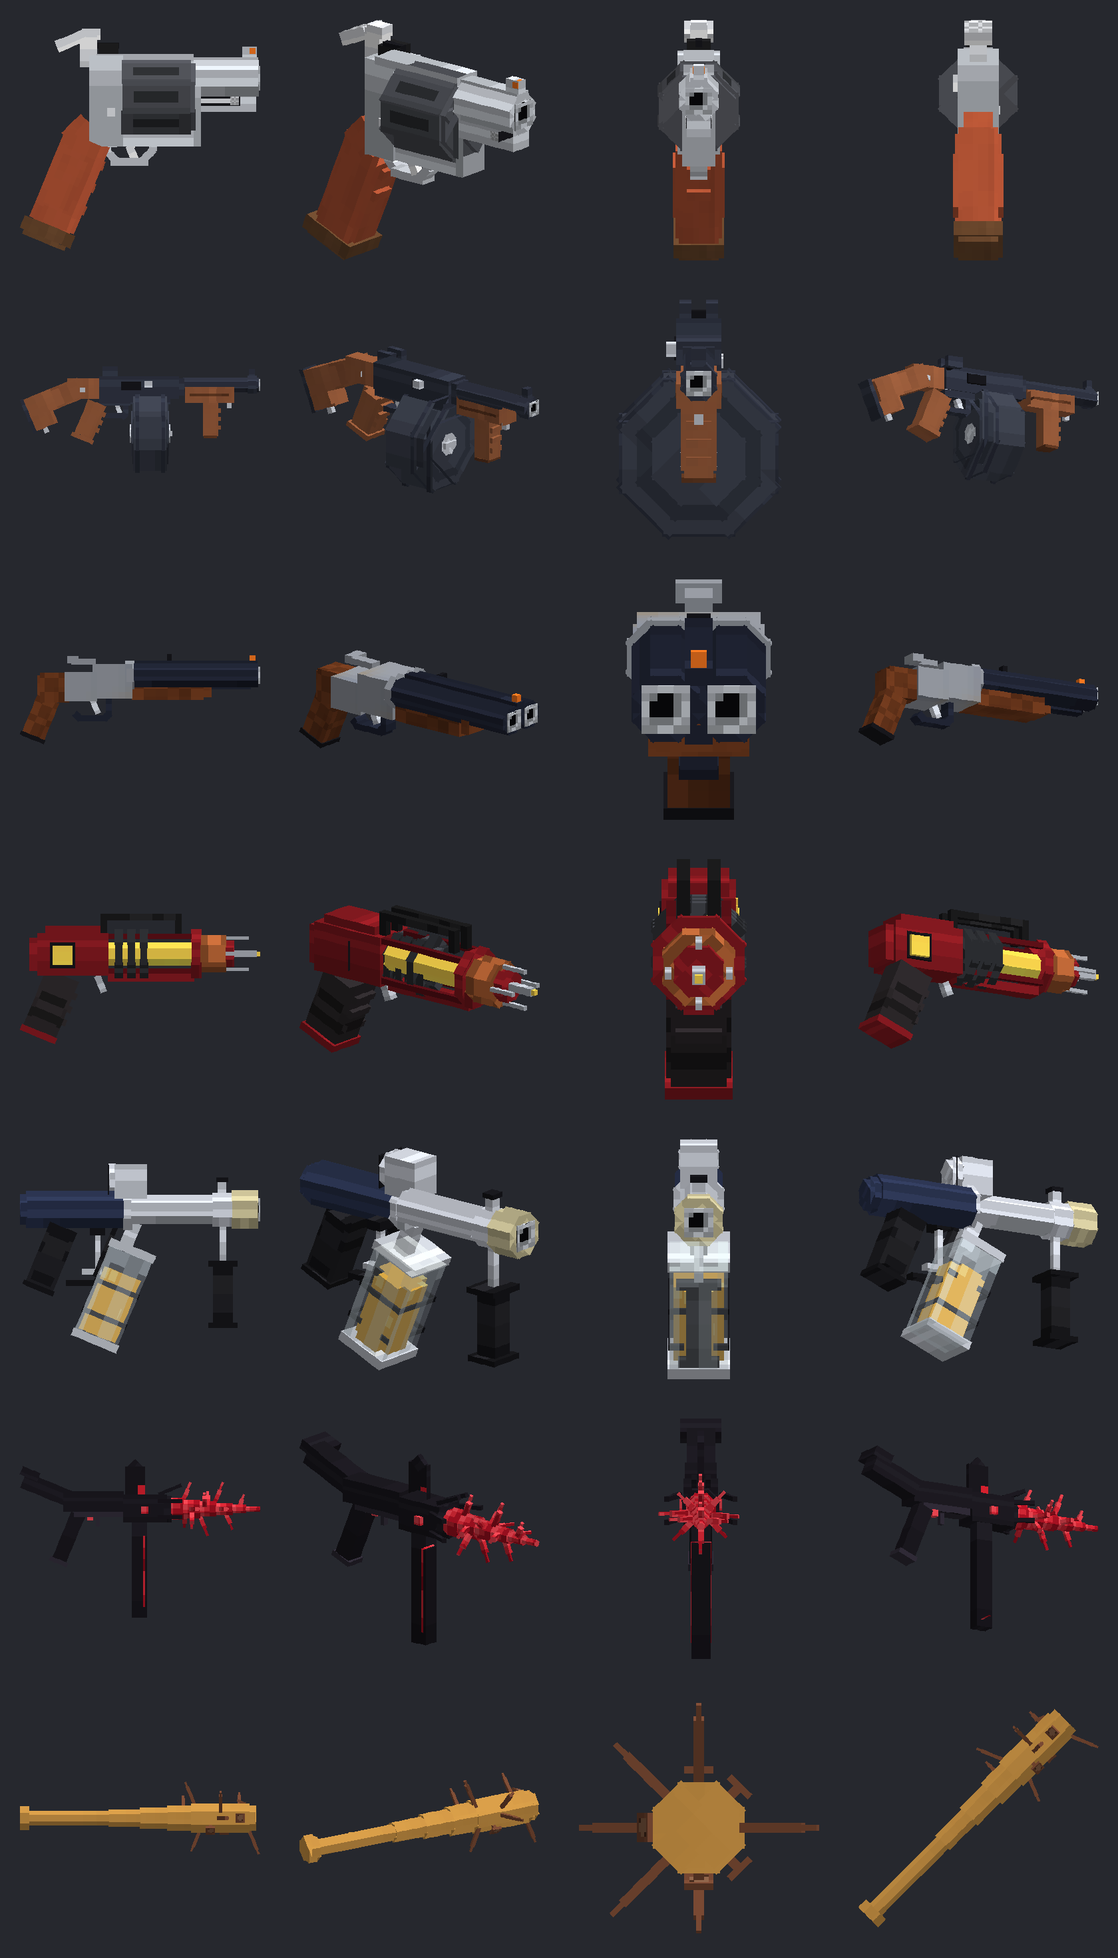
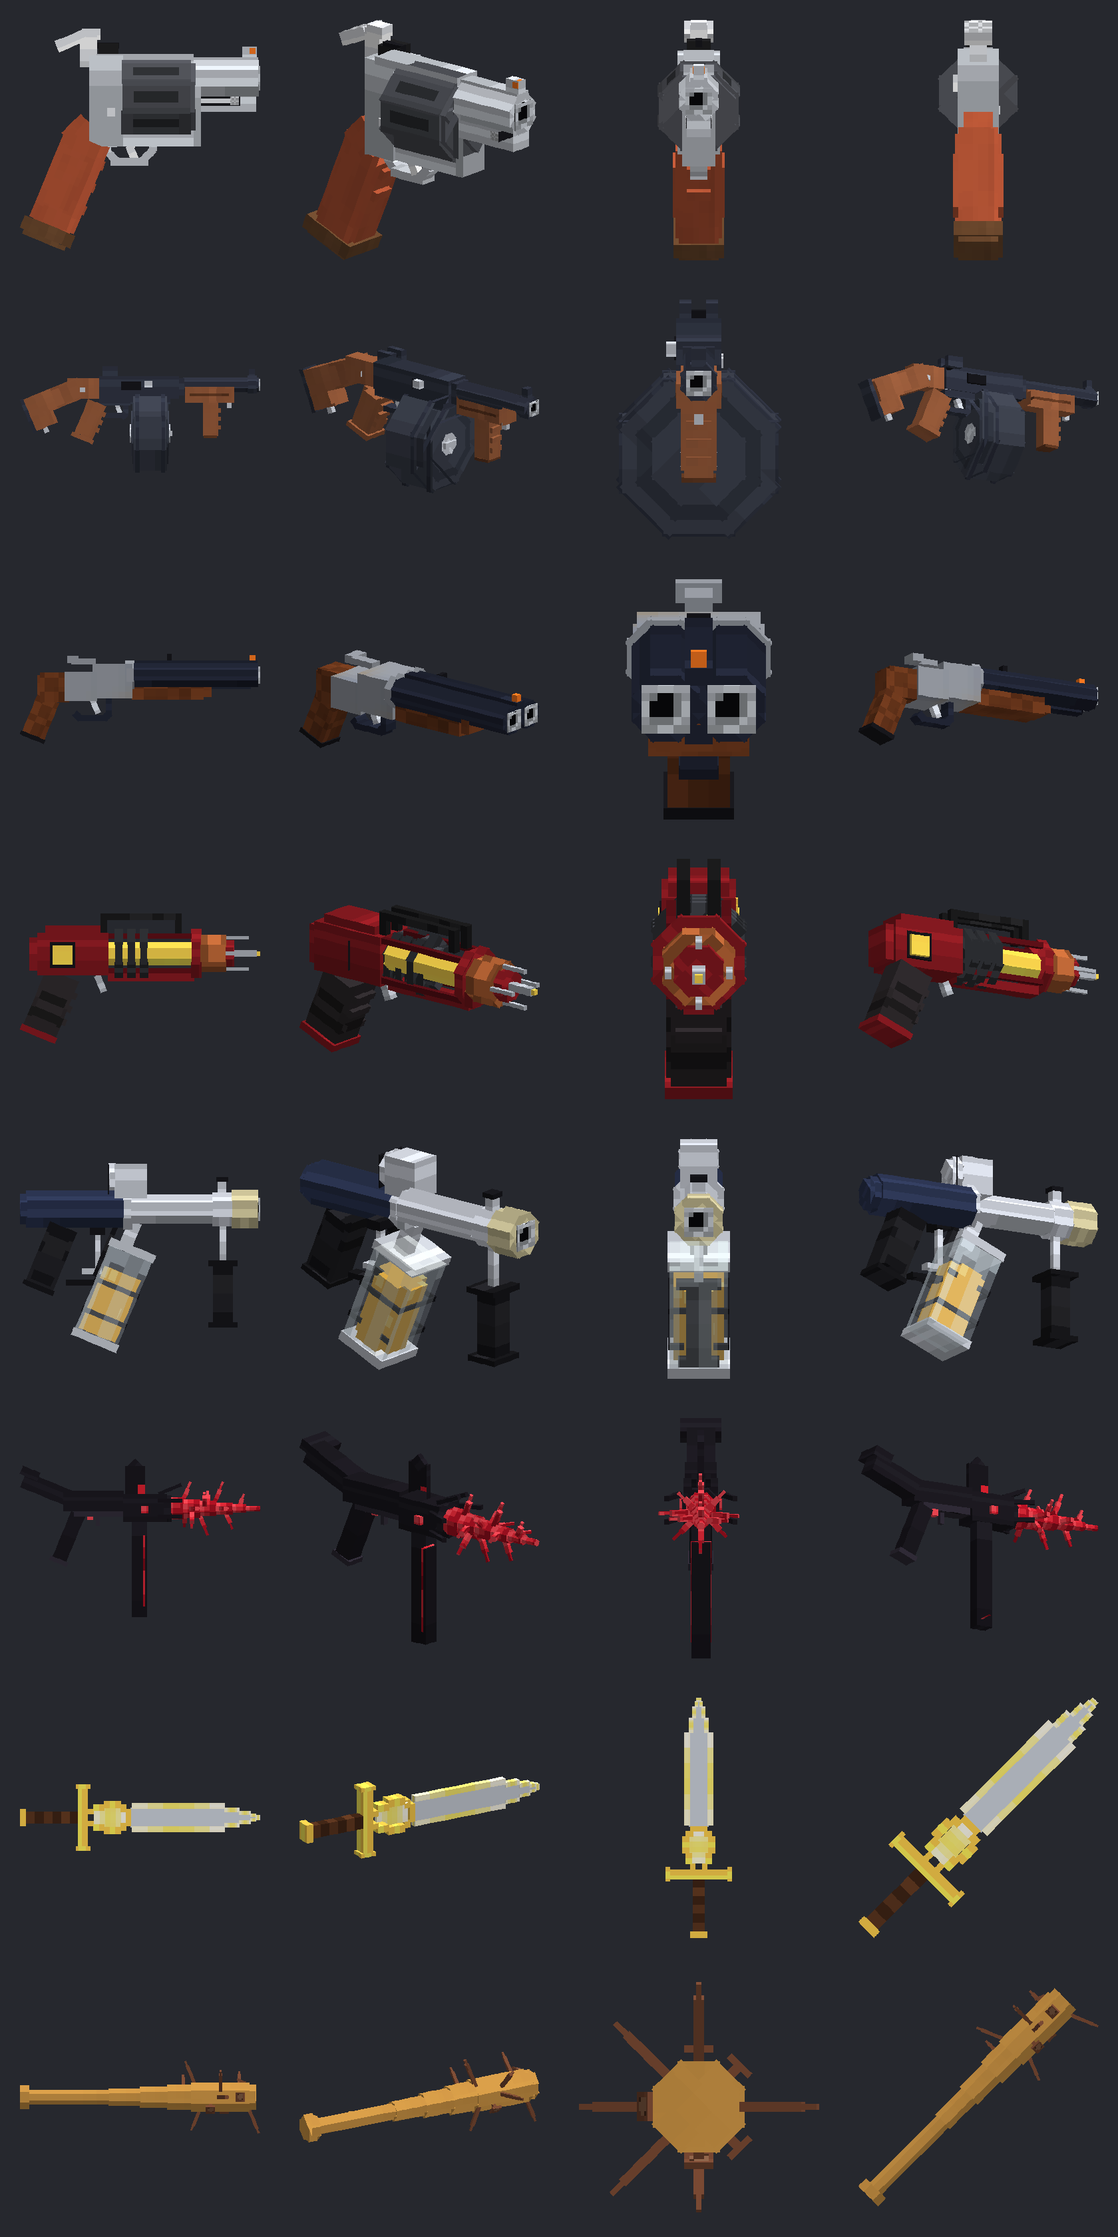
0.8.0: Radiant Ankh sword (ankh hilt, animated radiant edges and blade gleam)
Claude-Session: https://claude.ai/code/session_01G8stAj2NsEdEgKC46eLYfu

diff --git a/tools/make_pack.py b/tools/make_pack.py
@@ -692,6 +692,78 @@ for e in elements:   # the crystal glows faintly in the dark
     if any(f["texture"] == "#crystal" for f in e["faces"].values()): e["light_emission"] = 10
 UMBRAL = elements
 
+# ---------------- geometry: radiant ankh (sword) ----------------
+# A sword whose handle and hilt are an ankh: the stem is the grip, the crossbar is the guard, and the loop holds a
+# pane of light; the blade rises from the top of the loop. Its edges carry radiant light. Two textures are animated
+# (a strip of frames plus a .mcmeta file): the edge light shimmers upward and a gleam sweeps along the steel.
+def frames_strip(draw_frame, n):
+    strip = Image.new("RGBA", (16, 16 * n))
+    for i in range(n): strip.paste(draw_frame(i, n), (0, 16 * i))
+    return strip
+def radiance_frame(i, n):
+    im = Image.new("RGBA", (16, 16)); px = im.load()
+    for y in range(16):
+        for x in range(16):
+            wave = 0.5 + 0.5 * math.cos(2 * math.pi * ((y / 16) + i / n))   # bright band travelling up
+            core = 1 - abs(x - 7.5) / 8
+            v = 0.55 + 0.3 * wave + 0.15 * core
+            px[x, y] = (255, clamp(214 + 40 * v), clamp(110 + 140 * v * wave), 255)
+    return im
+def blade_frame(i, n):
+    im = Image.new("RGBA", (16, 16)); px = im.load()
+    for y in range(16):
+        for x in range(16):
+            c = (206, 212, 222)
+            if x in (7, 8): c = (168, 174, 188)                            # fuller down the middle
+            g = (x + (15 - y)) - (i * 32 / n) + 8                          # diagonal gleam sweeping across
+            if abs(g) < 2.2: c = tuple(min(255, v + 40) for v in c)
+            px[x, y] = c + (255,)
+    return im
+SWORD_TEX = {"gold": tex_metal((230, 186, 70)), "grip": tex_banded((92, 54, 32), 3, 0.7, vertical=True),
+             "blade": frames_strip(blade_frame, 16), "radiance": frames_strip(radiance_frame, 8)}
+ANIMATED = {"blade": {"frametime": 3, "interpolate": True}, "radiance": {"frametime": 2, "interpolate": True}}
+for k, im in SWORD_TEX.items():
+    im.save(path("assets", NS, "textures", "item", "radiant_ankh", k + ".png"))
+    if k in ANIMATED: wjson(path("assets", NS, "textures", "item", "radiant_ankh", k + ".png.mcmeta"), {"animation": ANIMATED[k]})
+FULL_UV.update({"radiance"})
+
+elements = []
+# the ankh: stem as the grip with a pommel, crossbar as the guard with flared ends
+box((7.0, -8.0, 7.2), (9.0, 1.0, 8.8), "grip")
+box((6.6, -9.0, 6.8), (9.4, -8.0, 9.2), "gold")                      # pommel
+box((3.0, 1.0, 7.0), (13.0, 2.6, 9.0), "gold")                       # crossbar
+box((2.4, 0.6, 6.9), (3.0, 3.0, 9.1), "gold")                        # flared ends
+box((13.0, 0.6, 6.9), (13.6, 3.0, 9.1), "gold")
+# the loop, narrow where it meets the crossbar and round at the top
+box((6.6, 2.6, 7.1), (7.4, 3.6, 8.9), "gold")
+box((8.6, 2.6, 7.1), (9.4, 3.6, 8.9), "gold")
+box((5.8, 3.6, 7.1), (6.8, 5.4, 8.9), "gold")
+box((9.2, 3.6, 7.1), (10.2, 5.4, 8.9), "gold")
+box((5.2, 5.4, 7.1), (6.4, 8.2, 8.9), "gold")
+box((9.6, 5.4, 7.1), (10.8, 8.2, 8.9), "gold")
+box((5.8, 8.2, 7.1), (7.0, 9.2, 8.9), "gold")
+box((9.0, 8.2, 7.1), (10.2, 9.2, 8.9), "gold")
+box((6.6, 9.2, 7.1), (9.4, 10.0, 8.9), "gold")                       # top of the loop
+box((6.5, 3.65, 7.85), (9.5, 9.15, 8.15), "radiance")                # pane of light inside the loop
+# the blade: steel rising from the loop, tapering to a point
+box((6.4, 10.0, 7.6), (9.6, 26.0, 8.4), "blade")
+box((6.9, 26.0, 7.62), (9.1, 28.5, 8.38), "blade")
+box((7.4, 28.5, 7.64), (8.6, 30.4, 8.36), "blade")
+box((7.8, 30.4, 7.66), (8.2, 31.4, 8.34), "blade")
+# radiant light down both edges and over the tip, wrapping a little over the blade's faces so it outlines the edge
+box((5.6, 10.2, 7.5), (6.5, 26.03, 8.5), "radiance")
+box((9.5, 10.2, 7.5), (10.4, 26.03, 8.5), "radiance")
+box((6.3, 26.03, 7.52), (7.0, 28.53, 8.48), "radiance")
+box((9.0, 26.03, 7.52), (9.7, 28.53, 8.48), "radiance")
+box((6.9, 28.53, 7.54), (7.5, 30.43, 8.46), "radiance")
+box((8.5, 28.53, 7.54), (9.1, 30.43, 8.46), "radiance")
+box((7.35, 30.43, 7.56), (7.85, 31.43, 8.44), "radiance")
+box((8.15, 30.43, 7.56), (8.65, 31.43, 8.44), "radiance")
+box((7.55, 31.33, 7.58), (8.45, 32.0, 8.42), "radiance")                # glowing point
+for e in elements:
+    if any(f["texture"] == "#radiance" for f in e["faces"].values()): e["light_emission"] = 15
+SWORD = elements
+
 # ---------------- maths for preview + auto-centring ----------------
 def rot_axis(v, axis, deg, origin):
     a = math.radians(deg); c, s = math.cos(a), math.sin(a)
@@ -783,6 +855,17 @@ UMBRAL_DISPLAY = {
     "thirdperson_righthand": centred(UMBRAL, (0, 0, 0), 0.5, (0, 3, -1)),
     "thirdperson_lefthand":  centred(UMBRAL, (0, 0, 0), 0.5, (0, 3, -1)),
 }
+# Held like a sword, the same way as the bat below (the model stands upright where a sword sprite runs corner to corner)
+SWORD_DISPLAY = {
+    "gui":                   centred(SWORD, (0, 0, -45), 0.5),
+    "ground":                centred(SWORD, (0, 0, 0), 0.32),
+    "fixed":                 centred(SWORD, (0, 0, -45), 0.55),
+    "head":                  centred(SWORD, (0, 180, 0), 0.55, (0, 10, 0)),
+    "thirdperson_righthand": {"rotation": [0, -90, 10], "translation": [0, 9.0, 0.5], "scale": [0.6] * 3},
+    "thirdperson_lefthand":  {"rotation": [0, 90, -10], "translation": [0, 9.0, 0.5], "scale": [0.6] * 3},
+    "firstperson_righthand": {"rotation": [0, -90, -20], "translation": [1.13, 6.5, 1.13], "scale": [0.5] * 3},
+    "firstperson_lefthand":  {"rotation": [0, 90, 20], "translation": [1.13, 6.5, 1.13], "scale": [0.5] * 3},
+}
 # The bat is held like a sword: these are vanilla's handheld transforms, turned 45 degrees further because the
 # bat model stands upright where a sword sprite runs corner to corner.
 BAT_DISPLAY = {
@@ -811,6 +894,7 @@ write_item("shotgun", SHOTGUN, SG_TEX, SHOTGUN_DISPLAY, "blued")
 write_item("pala_pistol", PALA, PALA_TEX, PALA_DISPLAY, "body")
 write_item("goo_cannon", GOO, GOO_TEX, GOO_DISPLAY, "steel", GOO_TEX_PATHS)
 write_item("umbral_lance", UMBRAL, UMB_TEX, UMBRAL_DISPLAY, "black")
+write_item("radiant_ankh", SWORD, SWORD_TEX, SWORD_DISPLAY, "gold")
 # pack.mcmeta: resource pack format 88 = Minecraft 26.2
 wjson(path("pack.mcmeta"), {"pack": {"description": "HandCannon weapons", "min_format": [88, 0], "max_format": [99, 0]}})
 
@@ -875,6 +959,7 @@ rows = [[render(GUN, TEX, -90, 0), render(GUN, TEX, -130, 18), render(GUN, TEX, 
         [render(PALA, PALA_TEX, -90, 0), render(PALA, PALA_TEX, -130, 18), render(PALA, PALA_TEX, 180, 8), render(PALA, PALA_TEX, -60, -15)],
         [render(GOO, GOO_PREVIEW_TEX, -90, 0), render(GOO, GOO_PREVIEW_TEX, -130, 18), render(GOO, GOO_PREVIEW_TEX, 180, 8), render(GOO, GOO_PREVIEW_TEX, -60, -15)],
         [render(UMBRAL, UMB_TEX, -90, 0), render(UMBRAL, UMB_TEX, -130, 18), render(UMBRAL, UMB_TEX, 180, 8), render(UMBRAL, UMB_TEX, -60, -15)],
+        [render(SWORD, SWORD_TEX, 0, 0, -90), render(SWORD, SWORD_TEX, 30, 20, -90), render(SWORD, SWORD_TEX, 0, 0, 0), render(SWORD, SWORD_TEX, 0, 0, -45)],
         [render(BAT, BAT_TEX, 0, 0, -90), render(BAT, BAT_TEX, 30, 20, -90), render(BAT, BAT_TEX, 0, 90), render(BAT, BAT_TEX, 0, 0, -45)]]
 pv = Image.new("RGBA", (420 * 4, 420 * len(rows)))
 for r, row in enumerate(rows):

diff --git a/src/main/java/dev/handcannon/HandCannonPlugin.java b/src/main/java/dev/handcannon/HandCannonPlugin.java
@@ -55,6 +55,7 @@ public final class HandCannonPlugin extends JavaPlugin implements Listener, TabE
     private PalaPistol pala;
     private GooCannon goo;
     private UmbralLance umbral;
+    private RadiantAnkh ankh;
     /** Last tick each player fired the Tommy gun, so one click can't fire twice (both hands, block + entity events). */
     private final Map<UUID, Integer> lastTommyShot = new HashMap<>();
 
@@ -70,11 +71,13 @@ public final class HandCannonPlugin extends JavaPlugin implements Listener, TabE
         pala = new PalaPistol(this);
         goo = new GooCannon(this);
         umbral = new UmbralLance(this);
+        ankh = new RadiantAnkh(this);
         getServer().getPluginManager().registerEvents(this, this);
         getServer().getPluginManager().registerEvents(bat, this);
         getServer().getPluginManager().registerEvents(pala, this);
         getServer().getPluginManager().registerEvents(goo, this);
         getServer().getPluginManager().registerEvents(umbral, this);
+        getServer().getPluginManager().registerEvents(ankh, this);
         var cmd = getCommand("handcannon");
         if (cmd != null) { cmd.setExecutor(this); cmd.setTabCompleter(this); }
     }
@@ -314,17 +317,17 @@ public final class HandCannonPlugin extends JavaPlugin implements Listener, TabE
         String sub = args.length == 0 ? "give" : args[0].toLowerCase();
         switch (sub) {
             case "give" -> {
-                // /hc give [gun|tommy|shotgun|pala|goo|corruption|bat] [player] ("umbral" also works); the item can be left out (gun)
+                // /hc give [gun|tommy|shotgun|pala|goo|corruption|ankh|bat] [player] ("umbral" also works); the item can be left out (gun)
                 int i = 1;
                 String what = "gun";
-                if (args.length > i && List.of("gun", "tommy", "shotgun", "pala", "goo", "corruption", "umbral", "bat").contains(args[i].toLowerCase())) what = args[i++].toLowerCase();
+                if (args.length > i && List.of("gun", "tommy", "shotgun", "pala", "goo", "corruption", "umbral", "ankh", "bat").contains(args[i].toLowerCase())) what = args[i++].toLowerCase();
                 Player target;
                 if (args.length > i) target = Bukkit.getPlayerExact(args[i]);
                 else target = sender instanceof Player self ? self : null;
-                if (target == null) { sender.sendMessage(Component.text("Usage: /" + label + " give [gun|tommy|shotgun|pala|goo|corruption|bat] <player>", NamedTextColor.RED)); return true; }
-                ItemStack item = switch (what) { case "bat" -> bat.create(); case "tommy" -> createTommy(); case "shotgun" -> createShotgun(); case "pala" -> pala.create(); case "goo" -> goo.create(); case "corruption", "umbral" -> umbral.create(); default -> createGun(); };
+                if (target == null) { sender.sendMessage(Component.text("Usage: /" + label + " give [gun|tommy|shotgun|pala|goo|corruption|ankh|bat] <player>", NamedTextColor.RED)); return true; }
+                ItemStack item = switch (what) { case "bat" -> bat.create(); case "tommy" -> createTommy(); case "shotgun" -> createShotgun(); case "pala" -> pala.create(); case "goo" -> goo.create(); case "corruption", "umbral" -> umbral.create(); case "ankh" -> ankh.create(); default -> createGun(); };
                 target.getInventory().addItem(item).values().forEach(left -> target.getWorld().dropItem(target.getLocation(), left));
-                sender.sendMessage(Component.text("Gave a " + switch (what) { case "bat" -> "Nail Bat"; case "tommy" -> "Tommy Gun"; case "shotgun" -> "Double Barrel"; case "pala" -> "Pala-Pistol"; case "goo" -> "Goo Cannon"; case "corruption", "umbral" -> "Corruption Cannon"; default -> "Hand Cannon"; } + " to " + target.getName(), NamedTextColor.GOLD));
+                sender.sendMessage(Component.text("Gave a " + switch (what) { case "bat" -> "Nail Bat"; case "tommy" -> "Tommy Gun"; case "shotgun" -> "Double Barrel"; case "pala" -> "Pala-Pistol"; case "goo" -> "Goo Cannon"; case "corruption", "umbral" -> "Corruption Cannon"; case "ankh" -> "Radiant Ankh"; default -> "Hand Cannon"; } + " to " + target.getName(), NamedTextColor.GOLD));
             }
             case "reload" -> {
                 reloadConfig();
@@ -335,7 +338,7 @@ public final class HandCannonPlugin extends JavaPlugin implements Listener, TabE
                 if (target == null) { sender.sendMessage(Component.text("Usage: /" + label + " pack <player>", NamedTextColor.RED)); return true; }
                 sendPack(target);
             }
-            default -> sender.sendMessage(Component.text("Usage: /" + label + " give [gun|tommy|shotgun|pala|goo|corruption|bat] [player] | reload | pack [player]", NamedTextColor.RED));
+            default -> sender.sendMessage(Component.text("Usage: /" + label + " give [gun|tommy|shotgun|pala|goo|corruption|ankh|bat] [player] | reload | pack [player]", NamedTextColor.RED));
         }
         return true;
     }
@@ -346,7 +349,7 @@ public final class HandCannonPlugin extends JavaPlugin implements Listener, TabE
         if (args.length == 1) {
             for (String s : List.of("give", "reload", "pack")) if (s.startsWith(args[0].toLowerCase())) out.add(s);
         } else if (args.length == 2 && args[0].equalsIgnoreCase("give")) {
-            for (String s : List.of("gun", "tommy", "shotgun", "pala", "goo", "corruption", "bat")) if (s.startsWith(args[1].toLowerCase())) out.add(s);
+            for (String s : List.of("gun", "tommy", "shotgun", "pala", "goo", "corruption", "ankh", "bat")) if (s.startsWith(args[1].toLowerCase())) out.add(s);
             for (Player pl : Bukkit.getOnlinePlayers()) if (pl.getName().toLowerCase().startsWith(args[1].toLowerCase())) out.add(pl.getName());
         } else if (args.length == 3 && args[0].equalsIgnoreCase("give")) {
             for (Player pl : Bukkit.getOnlinePlayers()) if (pl.getName().toLowerCase().startsWith(args[2].toLowerCase())) out.add(pl.getName());

diff --git a/src/main/java/dev/handcannon/RadiantAnkh.java b/src/main/java/dev/handcannon/RadiantAnkh.java
@@ -1,0 +1,83 @@
+package dev.handcannon;
+
+import net.kyori.adventure.text.Component;
+import net.kyori.adventure.text.format.NamedTextColor;
+import net.kyori.adventure.text.format.TextDecoration;
+import org.bukkit.Color;
+import org.bukkit.Material;
+import org.bukkit.NamespacedKey;
+import org.bukkit.Particle;
+import org.bukkit.Sound;
+import org.bukkit.SoundCategory;
+import org.bukkit.attribute.Attribute;
+import org.bukkit.attribute.AttributeModifier;
+import org.bukkit.entity.LivingEntity;
+import org.bukkit.entity.Player;
+import org.bukkit.event.EventHandler;
+import org.bukkit.event.EventPriority;
+import org.bukkit.event.Listener;
+import org.bukkit.event.entity.EntityDamageByEntityEvent;
+import org.bukkit.event.entity.EntityDamageEvent;
+import org.bukkit.event.inventory.FurnaceBurnEvent;
+import org.bukkit.event.inventory.PrepareItemCraftEvent;
+import org.bukkit.inventory.EquipmentSlotGroup;
+import org.bukkit.inventory.ItemStack;
+import org.bukkit.inventory.meta.ItemMeta;
+import org.bukkit.persistence.PersistentDataType;
+
+import java.util.List;
+
+/** The Radiant Ankh: a sword whose hilt is an ankh. A plain melee weapon; every hit flares with light. */
+final class RadiantAnkh implements Listener {
+    private static final Particle.DustOptions GOLD = new Particle.DustOptions(Color.fromRGB(255, 222, 120), 1.2f);
+
+    private final HandCannonPlugin plugin;
+    private final NamespacedKey key;
+
+    RadiantAnkh(HandCannonPlugin plugin) {
+        this.plugin = plugin;
+        key = new NamespacedKey(plugin, "radiant_ankh");
+    }
+
+    ItemStack create() {
+        var cfg = plugin.getConfig();
+        ItemStack it = new ItemStack(Material.STICK);
+        ItemMeta m = it.getItemMeta();
+        m.displayName(Component.text("Radiant Ankh", NamedTextColor.GOLD).decoration(TextDecoration.ITALIC, false));
+        m.lore(List.of(Component.text("Light given an edge", NamedTextColor.GRAY).decoration(TextDecoration.ITALIC, false)));
+        m.setItemModel(NamespacedKey.fromString("handcannon:radiant_ankh"));
+        m.setMaxStackSize(1);
+        // vanilla "base" modifier ids, so the tooltip shows the totals like a sword's
+        m.addAttributeModifier(Attribute.ATTACK_DAMAGE, new AttributeModifier(NamespacedKey.minecraft("base_attack_damage"),
+                cfg.getDouble("ankh.damage", 10) - 1, AttributeModifier.Operation.ADD_NUMBER, EquipmentSlotGroup.MAINHAND));
+        m.addAttributeModifier(Attribute.ATTACK_SPEED, new AttributeModifier(NamespacedKey.minecraft("base_attack_speed"),
+                cfg.getDouble("ankh.attack-speed", 1.6) - 4, AttributeModifier.Operation.ADD_NUMBER, EquipmentSlotGroup.MAINHAND));
+        m.getPersistentDataContainer().set(key, PersistentDataType.BYTE, (byte) 1);
+        it.setItemMeta(m);
+        return it;
+    }
+
+    boolean is(ItemStack it) {
+        return it != null && it.hasItemMeta() && it.getItemMeta().getPersistentDataContainer().has(key, PersistentDataType.BYTE);
+    }
+
+    @EventHandler(priority = EventPriority.MONITOR, ignoreCancelled = true)
+    public void onHit(EntityDamageByEntityEvent e) {
+        if (!(e.getDamager() instanceof Player p) || !(e.getEntity() instanceof LivingEntity target)) return;
+        if (e.getCause() != EntityDamageEvent.DamageCause.ENTITY_ATTACK || !is(p.getInventory().getItemInMainHand())) return;
+        var at = target.getLocation().add(0, target.getHeight() * 0.6, 0);
+        var w = target.getWorld();
+        w.spawnParticle(Particle.END_ROD, at, 10, 0.2, 0.3, 0.2, 0.08);
+        w.spawnParticle(Particle.DUST, at, 12, 0.3, 0.4, 0.3, 0, GOLD);
+        w.playSound(at, Sound.BLOCK_AMETHYST_BLOCK_CHIME, SoundCategory.PLAYERS, 1.2f, 1.4f);
+    }
+
+    // a stick underneath: keep it out of crafting grids and furnaces
+    @EventHandler
+    public void onCraft(PrepareItemCraftEvent e) {
+        for (ItemStack it : e.getInventory().getMatrix()) if (is(it)) { e.getInventory().setResult(null); return; }
+    }
+
+    @EventHandler
+    public void onBurn(FurnaceBurnEvent e) { if (is(e.getFuel())) e.setCancelled(true); }
+}

diff --git a/README.md b/README.md
@@ -2,8 +2,8 @@
 
 A comically oversized snubnose revolver (right-click to fire), a cartoon M1-style Tommy gun with a huge drum magazine
 (hold right-click for full auto), a chunky sawed-off side-by-side shotgun (right-click for a blast of pellets),
-the Pala-Pistol (a slow bolt of light that stuns), the Goo Cannon (a glob of honey that traps), the Corruption Cannon (a piercing beam of darkness)
-and a nail-studded baseball bat (hold right-click to wind up a home run), all with 3D models. No ammo, no reloading.
+the Pala-Pistol (a slow bolt of light that stuns), the Goo Cannon (a glob of honey that traps), the Corruption Cannon (a piercing beam of darkness),
+the Radiant Ankh (a sword with an ankh hilt and animated, glowing edges) and a nail-studded baseball bat (hold right-click to wind up a home run), all with 3D models. No ammo, no reloading.
 
 ![preview](preview.png)
 
@@ -25,7 +25,7 @@ person, third person, the inventory and item frames is the `DISPLAY` table near 
 change a rotation, nudge or scale, re-run the script and re-host the zip.
 
 ## Commands
-    /hc give [gun|tommy|shotgun|pala|goo|corruption|bat] [player]   give a Hand Cannon (default), Tommy Gun, Double Barrel, Pala-Pistol, Goo Cannon, Corruption Cannon or Nail Bat (op)
+    /hc give [gun|tommy|shotgun|pala|goo|corruption|ankh|bat] [player]   give a Hand Cannon (default), Tommy Gun, Double Barrel, Pala-Pistol, Goo Cannon, Corruption Cannon, Radiant Ankh or Nail Bat (op)
     /hc reload              reload config.yml (op)
     /hc pack [player]       resend the resource pack (op)
 Permission `handcannon.use` (everyone by default) is needed to fire.
@@ -58,6 +58,12 @@ Settings are under `goo:`.
 Right-click fires an instant crimson beam that runs through every creature in a line, up to the first wall. Each
 target takes 10 damage (five hearts) and gets the Darkness effect for 5 seconds. The model's red crystal glows
 faintly in the dark. Settings are under `umbral:` (its earlier name; `/hc give umbral` still works too).
+
+## Radiant Ankh
+A sword whose handle and hilt are an ankh, with the blade rising out of the loop. Its edges and tip are lined with
+radiant light that shimmers upward and glows in the dark, and a gleam sweeps along the steel (both are animated
+textures). It swings like a vanilla sword and does 10 damage (five hearts); every hit flares with light. Damage and
+speed are stamped on each sword when it is given (`ankh:` in `config.yml`).
 
 ## Nail Bat
 Left-click is a normal hit: 10 damage (five hearts) at full strength, a bit under one swing a second.
